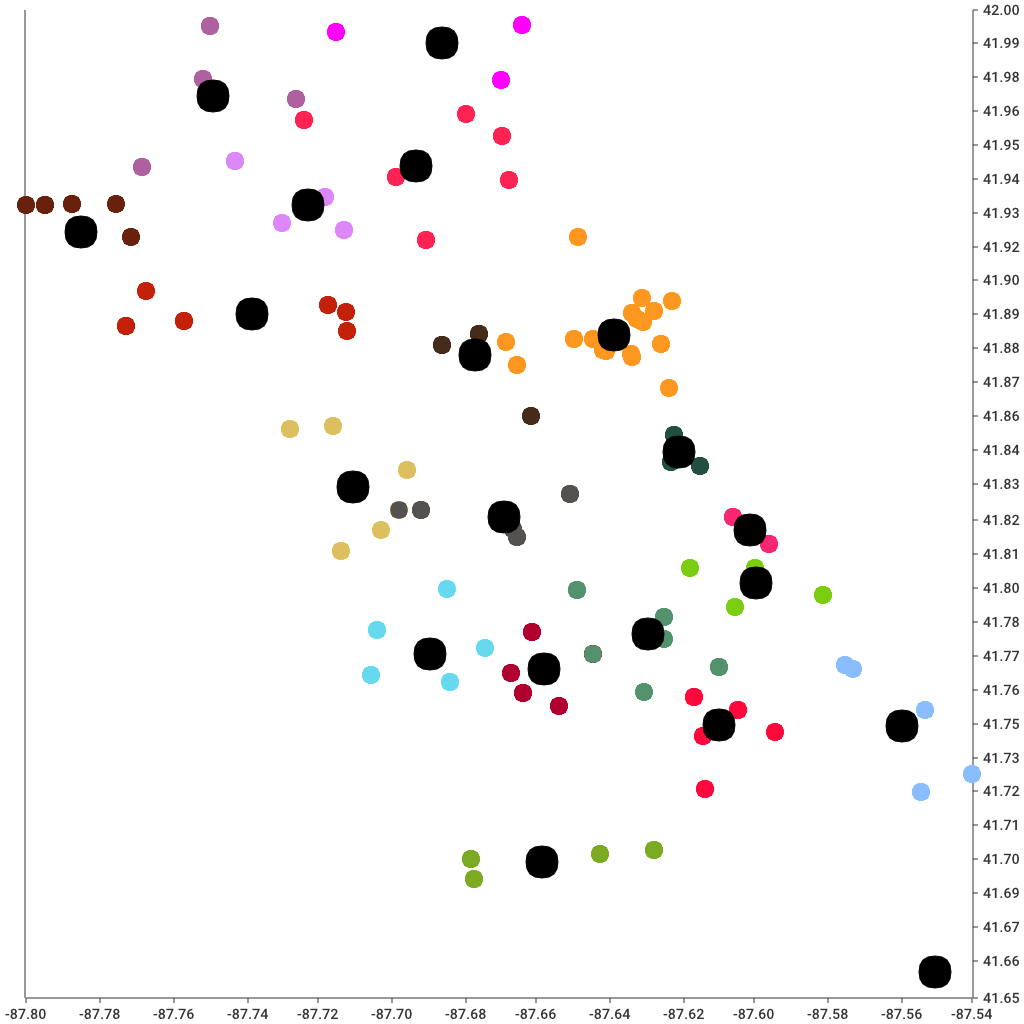
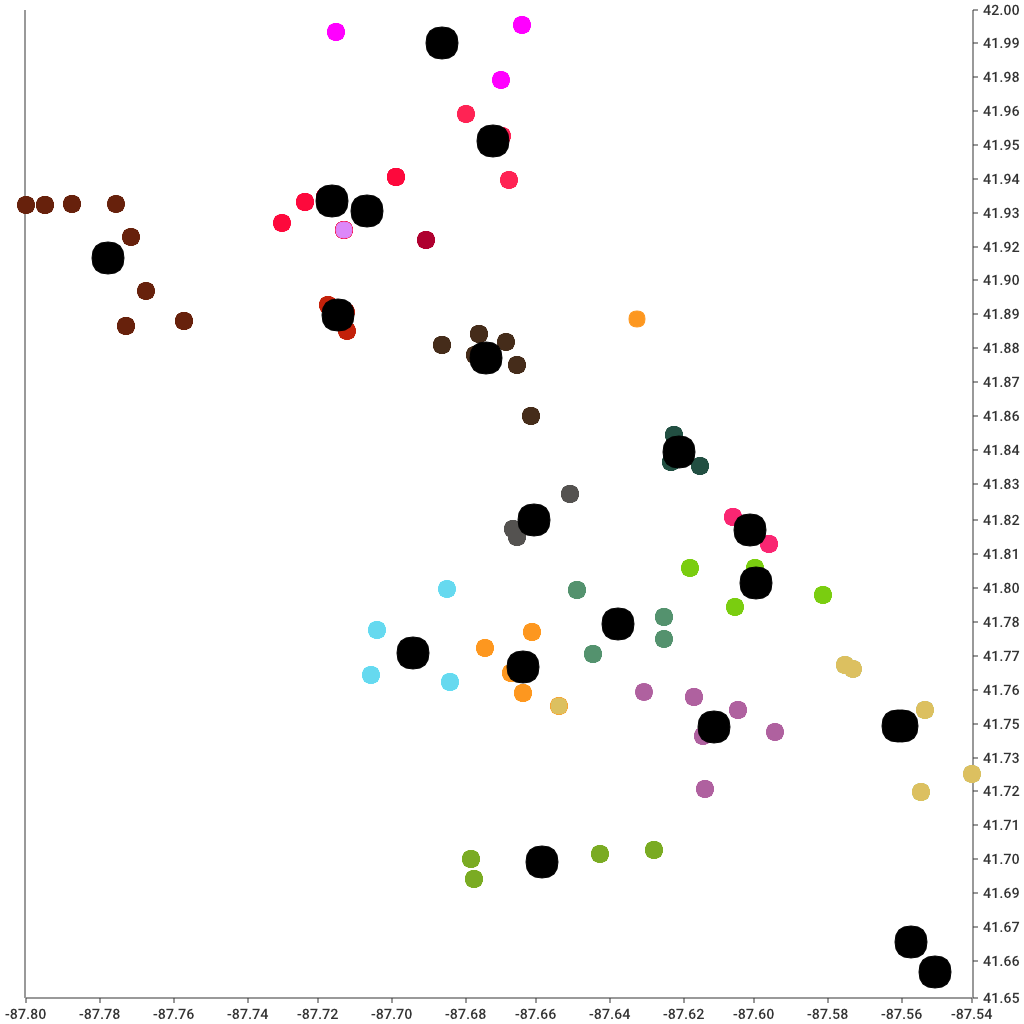
better, lost some data

diff --git a/main.go b/main.go
@@ -15,6 +15,7 @@ import (
 	"encoding/csv"
 	"fmt"
 	"os"
+	"sort"
 	"strconv"
 )
 
@@ -43,6 +44,26 @@ func main() {
 	iter := 0
 	for max-min > 10 {
 		var count3 []int
+		type sorted struct {
+			cl int
+			dt float64
+		}
+		var sortcd []sorted
+		for i, _ := range clusters {
+			// search nearest neighbour
+			// r, cd := clusters.Neighbour(clusters[i].Center, 0)
+			// for _, p := range clusters[i].Observations {
+			// r, _ = c.Neighbour(p, A)
+			distA := clusters[0].Center.Distance(clusters[i].Center)
+			sortcd = append(sortcd, sorted{
+				i,
+				distA,
+			})
+			// }
+		}
+		sort.SliceStable(sortcd, func(i, j int) bool {
+			return sortcd[i].dt < sortcd[j].dt
+		})
 		//  Plan the steps of adjustment among clusters;
 		// 19 step (0, 1) (1,2), dst
 		for i := 0; i < len(clusters); i++ {
@@ -50,59 +71,35 @@ func main() {
 			// cc, _ := New(20, clusters[i].Observations)
 			var diffA Observations
 			var diffB []diffsort
-			// type sorted struct {
-			// 	cl int
-			// 	dt float64
-			// }
-			// var sortcd []sorted
-			var B int
 
 			if len(clusters[i].Observations) < 102 {
 				continue
 			}
-			// for i, _ := range clusters {
-			// search nearest neighbour
-			// r, cd := clusters.Neighbour(clusters[i].Center, i)
-			// 	sortcd = append(sortcd, sorted{
-			// 		r,
-			// 		cd,
-			// 	})
-			// }
 
-			//close (?)
-			// sort.SliceStable(sortcd, func(i, j int) bool {
-			// 	return sortcd[i].dt < sortcd[j].dt
-			// })
-			// B = sortcd[0].cl
-			// if len(clusters[B].Observations) > 102 {
-			// 	//bikin neighbour yang isinya < 102
-			// 	B = sortcd[1].cl
-			// }
-
-			// //call borderadjust, get new cluster A & B
-			// if i < (len(clusters) - 1) {
-			B, _ = clusters.Neighbour(clusters[i].Center, i)
-			diffA, diffB = clusters.borderadjust(i, B)
-			// } else {
-			// 	diffA, diffB = clusters.borderadjust(i, 0)
-			// }
+			//call borderadjust, get new cluster A & B
+			if i < (len(clusters) - 1) {
+				// B, _ = clusters.Neighbour(clusters[i].Observations[i], i)
+				diffA, diffB = clusters.borderadjust(sortcd[i].cl, sortcd[i+1].cl)
+			} else {
+				diffA, diffB = clusters.borderadjust(sortcd[i].cl, sortcd[0].cl)
+			}
 
 			if len(diffA) == 0 && len(diffB) == 0 {
 				continue
 			} else if len(diffA) != 0 && len(diffB) != 0 {
 				clusters[i].Observations = diffA
-				// 	if i < (len(clusters) - 1) {
-				// 		for j := 0; j < len(diffB); j++ {
-				// 			clusters[i+1].Observations = append(clusters[i+1].Observations, diffB[j].data)
-				// 		}
-				// 	} else {
-				// 		for j := 0; j < len(diffB); j++ {
-				// 			clusters[0].Observations = append(clusters[0].Observations, diffB[j].data)
-				// 		}
-				// 	}
-				for j := 0; j < len(diffB); j++ {
-					clusters[B].Observations = append(clusters[B].Observations, diffB[j].data)
+				if i < (len(clusters) - 1) {
+					for j := 0; j < len(diffB); j++ {
+						clusters[i+1].Observations = append(clusters[sortcd[i+1].cl].Observations, diffB[j].data)
+					}
+				} else {
+					for j := 0; j < len(diffB); j++ {
+						clusters[0].Observations = append(clusters[sortcd[0].cl].Observations, diffB[j].data)
+					}
 				}
+				// for j := 0; j < len(diffB); j++ {
+				// 	clusters[B].Observations = append(clusters[B].Observations, diffB[j].data)
+				// }
 			}
 			clusters.Recenter()
 		}
